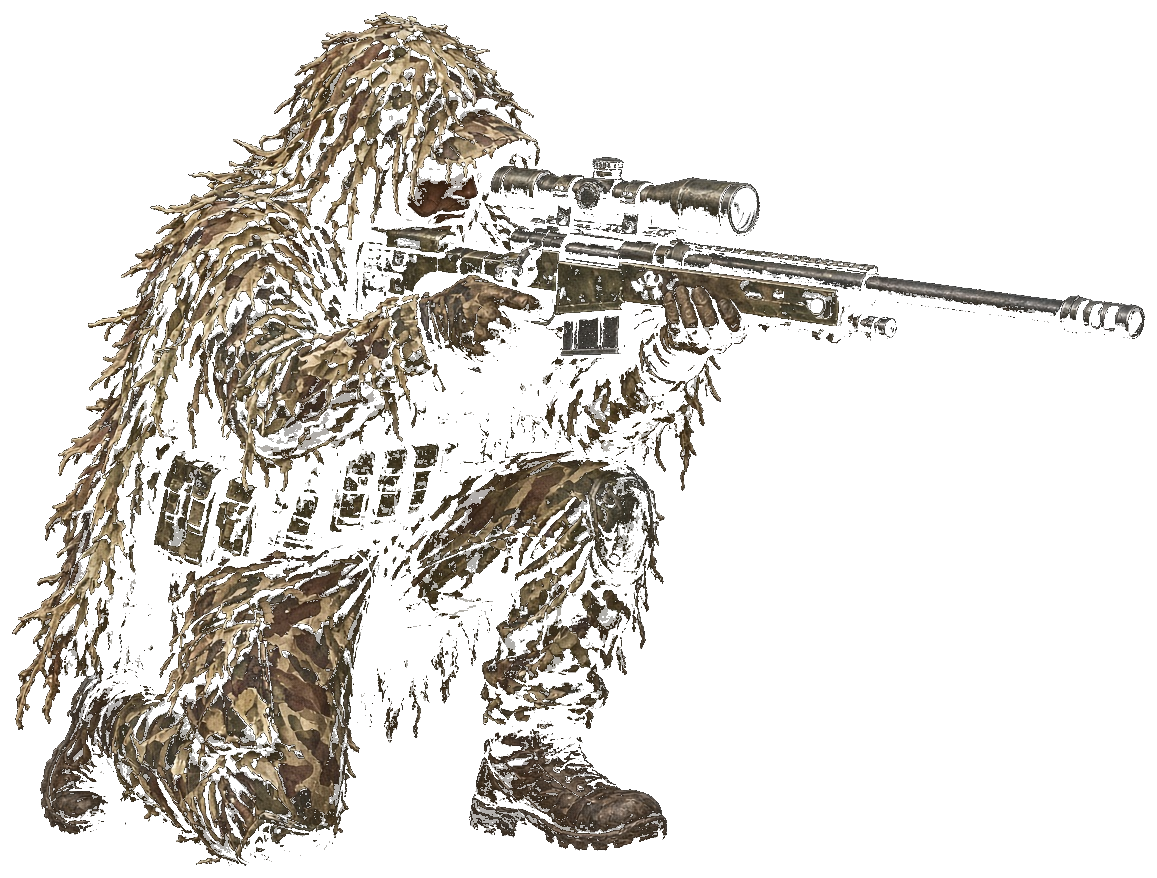
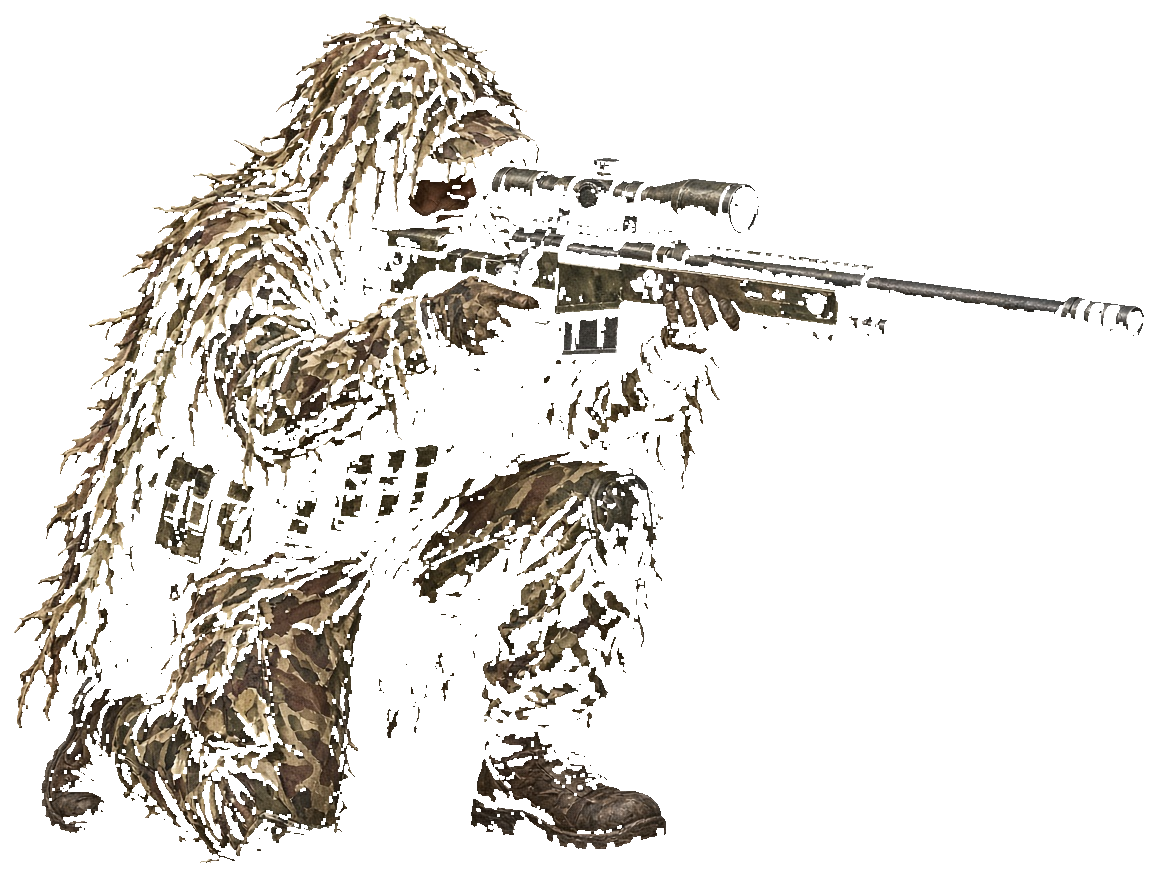
Snap unit sprite alpha so bodies are not see-through.
A 1px erode drops the grass fringe, then alpha below 10 becomes clear and the rest becomes solid. Every unit file is at 0% partly transparent pixels, under the 2% target.

Changed region(s): [[0.0311, 0.0, 0.809, 0.9841], [0.8712, 0.3383, 0.9957, 0.3998], [0.5601, 0.9226, 0.5912, 0.9533]]

diff --git a/src/game/iso.ts b/src/game/iso.ts
@@ -70,7 +70,7 @@ function load(name: string): Promise<HTMLImageElement | null> {
       else done();
     };
     img.onerror = () => resolve(null);
-    img.src = `/art/iso/${name}.png?v=4`;
+    img.src = `/art/iso/${name}.png?v=5`;
   });
 }
 
